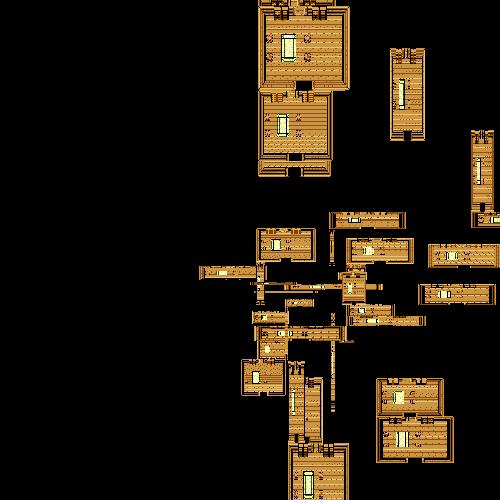
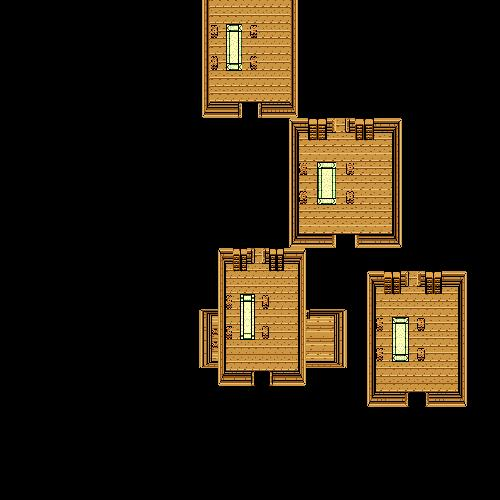
generating mansion

diff --git a/src/edu/drexel/cs680/proj3/gen/RoomUtils.java b/src/edu/drexel/cs680/proj3/gen/RoomUtils.java
@@ -76,8 +76,11 @@ public class RoomUtils {
 		int move_left = Math.abs(collidingRoom.getRightEdge() - targetRoom.getLeftEdge());
 		int move_x = move_right > move_left ? -(move_left) : move_right;
 		
-		collidingRoom.center_x = collidingRoom.center_x + move_x;
-		collidingRoom.center_y = collidingRoom.center_y + move_y;
+		if (new Random().nextBoolean()) {
+			collidingRoom.center_x = collidingRoom.center_x + move_x;
+		}else {
+			collidingRoom.center_y = collidingRoom.center_y + move_y;
+		}
 	}
 	
 	private static List<Room> getCollidingRooms(List<Room> rooms, Room targetRoom) {
@@ -159,8 +162,8 @@ public class RoomUtils {
 	private static Room createRandomRoom(int maxx, int maxy) {
 		Random random = new Random();
 		
-		int random_width = random.nextInt(maxx/5);
-		int random_height = random.nextInt(maxy/5);
+		int random_width = maxx/10 + random.nextInt(maxx/5);
+		int random_height = maxy/10 + random.nextInt(maxy/5);
 		int random_center_x = maxx/2 + random.nextInt(maxx/5);
 		int random_center_y = maxy/2 + random.nextInt(maxy/5);
 		String random_name = RoomNames.values()[random.nextInt(RoomNames.values().length)].toString();

diff --git a/src/edu/drexel/cs680/proj3/modules/Mansion.java b/src/edu/drexel/cs680/proj3/modules/Mansion.java
@@ -8,7 +8,7 @@ import edu.drexel.cs680.proj3.util.ImageUtil;
 
 public class Mansion {
 
-	public static final int MAX_ROOMS = 50;
+	public static final int MAX_ROOMS = 5;
 	public static final int WIDTH = 500;
 	public static final int HEIGHT = 500;
 	
